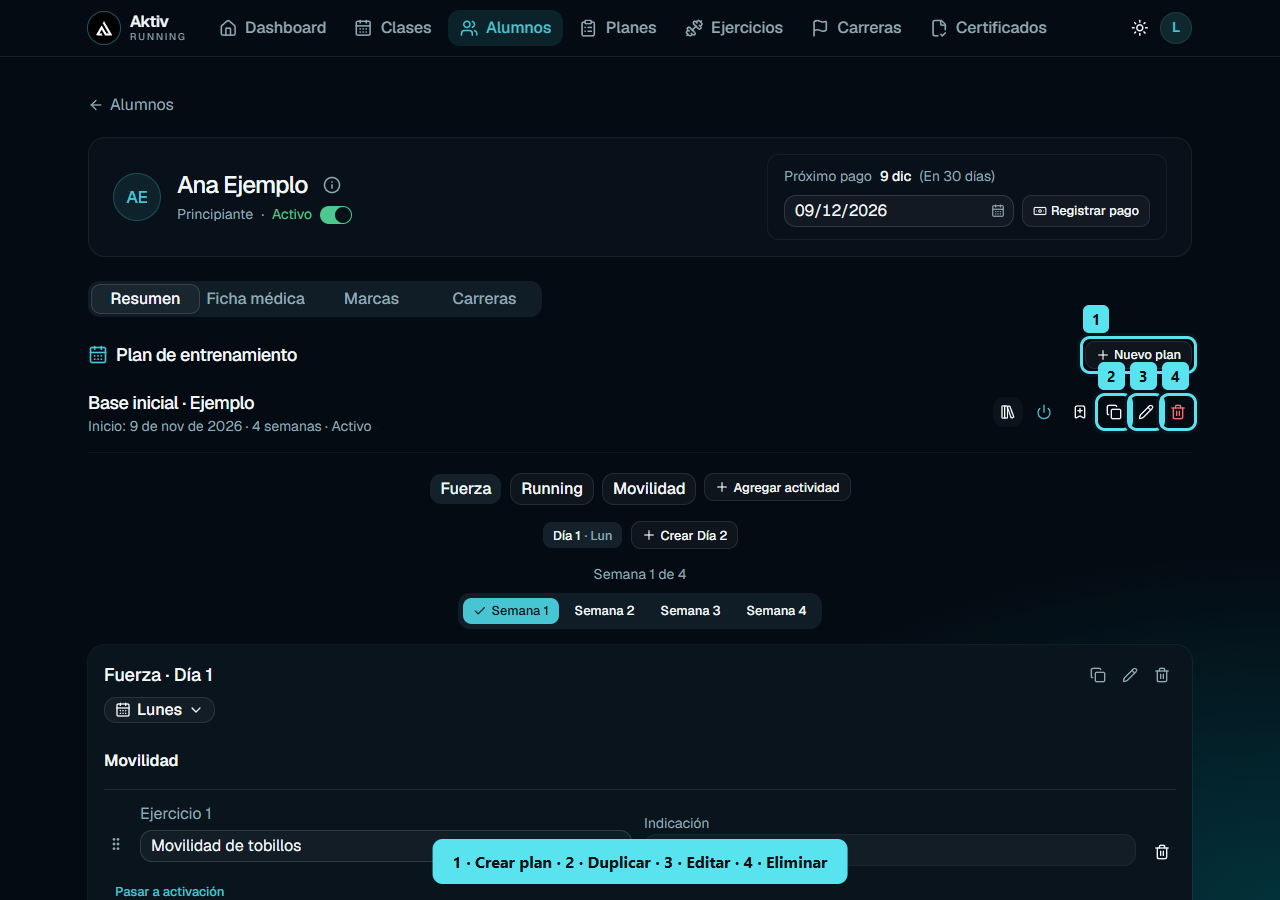
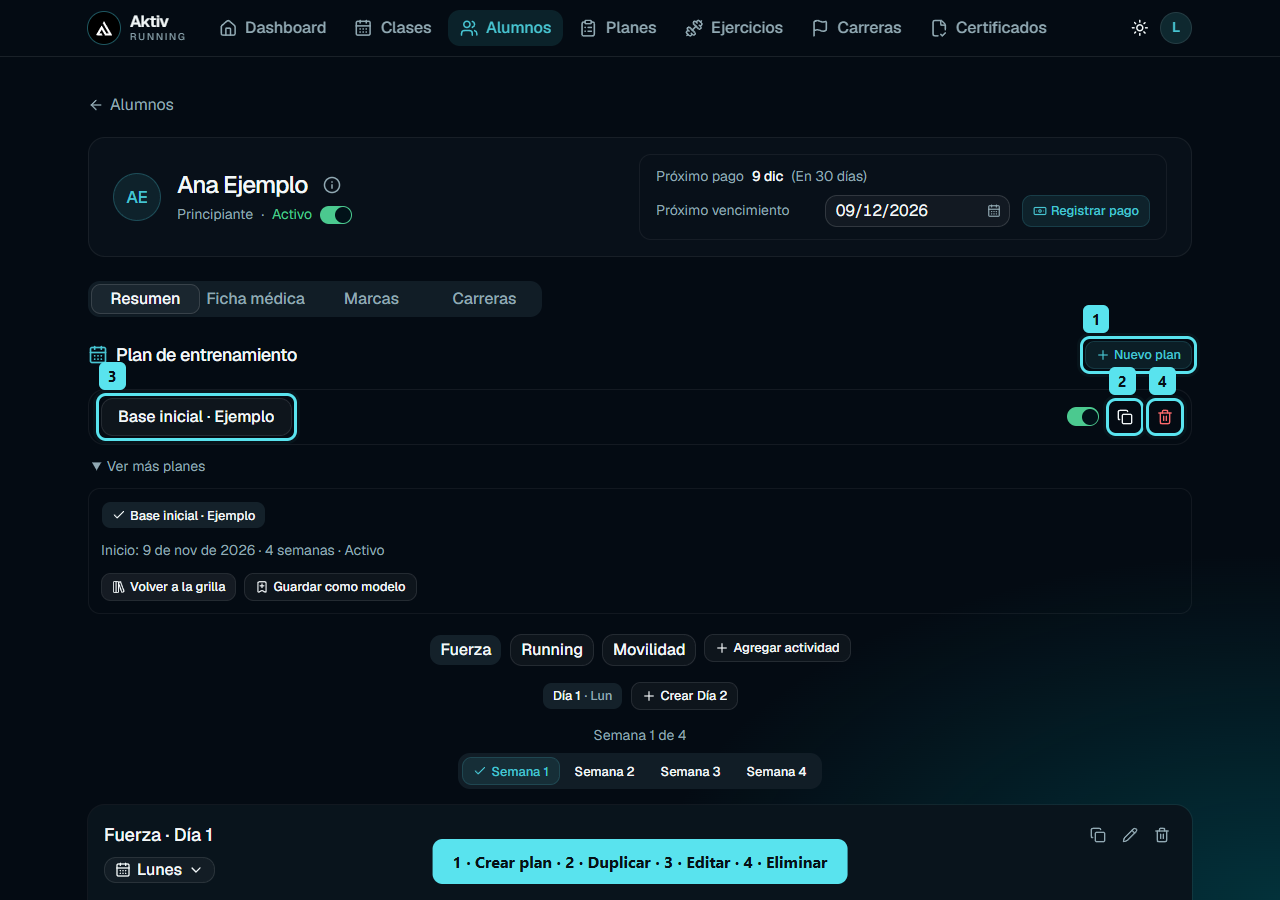
Unificar GYM con Fuerza y ajustar la barra al boceto

diff --git a/aktiv-client/src/components/plan-mensual.tsx b/aktiv-client/src/components/plan-mensual.tsx
@@ -16,6 +16,7 @@ import { RunningSemanal } from "./running-semanal";
 import { Card, CardContent, CardHeader, CardTitle, CardDescription } from "@/components/ui/card";
 import { Button } from "@/components/ui/button";
 import { Input } from "@/components/ui/input";
+import { Switch } from "@/components/ui/switch";
 import { FechaInput } from "@/components/fecha-input";
 import { Textarea } from "@/components/ui/textarea";
 import { Dialog, DialogContent, DialogHeader, DialogTitle, DialogDescription, DialogFooter } from "@/components/ui/dialog";
@@ -79,17 +80,23 @@ export function PlanMensualPanel({ alumnoId, editable = false, children, unifica
     <div className="flex min-w-0 flex-wrap items-start justify-between gap-3">
       <div className="min-w-0"><h2 className="flex items-center gap-2 text-lg font-medium tracking-tight"><CalendarDays className="size-5 shrink-0 text-primary" />Plan de entrenamiento</h2>
         {!unificado&&<p className="mt-1 text-sm text-muted-foreground">Sesiones por día y progresión por semanas.</p>}</div>
-      {editable && <Button variant="outline" size="sm" disabled={ocupado || datos.cargando || Boolean(datos.error)} onClick={() => navegar(() => { setCrear(true); })}><Plus />Nuevo plan</Button>}
+      {editable && <Button variant={unificado?"default":"outline"} size="sm" disabled={ocupado || datos.cargando || Boolean(datos.error)} onClick={() => navegar(() => { setCrear(true); })}><Plus />Nuevo plan</Button>}
     </div>
     {datos.cargando ? <p role="status" className="py-8 text-sm text-muted-foreground">Cargando planes…</p> : datos.error ?
       <div role="alert" className="rounded-xl border border-destructive/30 p-4 text-sm"><p>{datos.error}</p><Button variant="outline" size="sm" className="mt-2" onClick={datos.reintentar}>Reintentar</Button></div> : <>
-      {(editable||unificado) && visibles.length > 1 && <div className="flex flex-wrap gap-2" aria-label="Planes de entrenamiento">
+      {!(editable&&unificado) && (editable||unificado) && visibles.length > 1 && <div className="flex flex-wrap gap-2" aria-label="Planes de entrenamiento">
         {visibles.map((p) => <Button key={p.id} variant={p.id === plan?.id ? "secondary" : "outline"} size="sm" aria-pressed={p.id === plan?.id} onClick={() => navegar(() => setSeleccion(p.id))}>
           {p.activo && <Check className="size-3.5" />}{p.nombre || "Sin nombre"}
         </Button>)}
       </div>}
       {!editable && !unificado && visibles.length > 0 ? <CalendarioPlanes planes={visibles} /> : plan ? <>
-        <div className="flex min-w-0 flex-wrap items-center justify-between gap-3 border-b border-border/50 pb-4">
+        {editable&&unificado?<div className="space-y-2">
+          <div aria-label="Acciones del plan" role="group" className="flex min-w-0 items-center justify-between gap-3 rounded-xl border border-border/70 px-3 py-2">
+            <Button variant="outline" className="h-auto min-h-9 min-w-0 max-w-[65%] justify-start whitespace-normal px-4 py-1.5 text-left font-medium" aria-label="Editar plan de entrenamiento" title="Editar nombre, inicio y duración" disabled={ocupado} onClick={()=>navegar(()=>setEditando(plan))}>{plan.nombre||"Sin nombre"}</Button>
+            <div className="flex shrink-0 items-center gap-2 sm:gap-3"><Switch aria-label={plan.activo?"Desactivar plan":"Activar plan"} title={plan.activo?"Desactivar plan":"Activar plan"} checked={plan.activo} disabled={ocupado} style={{backgroundColor:plan.activo?"var(--success)":"var(--destructive)"}} onCheckedChange={v=>navegar(()=>void accion(v?"activar":"desactivar"))} /><Button size="icon-sm" variant="ghost" aria-label="Duplicar plan de entrenamiento" title="Duplicar plan" disabled={ocupado} onClick={()=>navegar(()=>setDuplicandoPlan(plan))}><Copy /></Button><Button size="icon-sm" variant="ghost" aria-label="Eliminar plan de entrenamiento" title="Eliminar plan" disabled={ocupado} onClick={()=>navegar(()=>setBorrar(true))}><Trash2 className="text-destructive" /></Button></div>
+          </div>
+          <details className="group/otros-planes"><summary className="w-fit cursor-pointer rounded-md px-1 py-1 text-xs text-muted-foreground outline-none hover:text-foreground focus-visible:ring-2 focus-visible:ring-ring">Ver más planes</summary><div className="mt-2 space-y-3 rounded-lg border border-border/60 p-3"><div className="flex flex-wrap gap-2" aria-label="Planes de entrenamiento">{visibles.map(p=><Button key={p.id} variant={p.id===plan.id?"secondary":"outline"} size="sm" aria-pressed={p.id===plan.id} onClick={()=>navegar(()=>setSeleccion(p.id))}>{p.activo&&<Check className="size-3.5" />}{p.nombre||"Sin nombre"}</Button>)}</div><p className="text-xs text-muted-foreground">Inicio: {formatFecha(plan.inicio,{conAnio:true})} · {plan.semanas} semanas · {plan.activo?"Activo":"Borrador"}</p><div className="flex flex-wrap gap-2"><Button variant="outline" size="sm" aria-label="Organizar rutinas" aria-pressed={organizando} onClick={()=>navegar(()=>setOrganizando(v=>!v))}><LibraryBig />{organizando?"Volver a la grilla":"Organizar rutinas"}</Button><Button variant="outline" size="sm" disabled={ocupado} onClick={()=>navegar(()=>setGuardandoModelo(true))}><BookmarkPlus />Guardar como modelo</Button></div></div></details>
+        </div>:<>        <div className="flex min-w-0 flex-wrap items-center justify-between gap-3 border-b border-border/50 pb-4">
           <div className="min-w-0 flex-1 basis-48"><p className="break-words text-lg font-medium tracking-tight">{plan.nombre || "Plan de entrenamiento"}</p><p className="text-xs text-muted-foreground">Inicio: {formatFecha(plan.inicio, { conAnio: true })} · {plan.semanas} semanas · {plan.activo ? "Activo" : "Borrador"}</p></div>
           {editable && <div className="flex flex-wrap items-center gap-1">
             {unificado&&<Button variant="ghost" size="icon" aria-label="Organizar rutinas" title={organizando?"Volver a la grilla":"Organizar rutinas"} aria-pressed={organizando} onClick={()=>navegar(()=>setOrganizando(v=>!v))}><LibraryBig /></Button>}
@@ -100,7 +107,7 @@ export function PlanMensualPanel({ alumnoId, editable = false, children, unifica
             <Button size="icon-sm" variant="ghost" aria-label="Editar plan de entrenamiento" title="Editar plan" disabled={ocupado} onClick={() => navegar(() => setEditando(plan))}><Pencil /></Button>
             <Button size="icon-sm" variant="ghost" aria-label="Eliminar plan de entrenamiento" disabled={ocupado} onClick={() => navegar(() => setBorrar(true))}><Trash2 className="text-destructive" /></Button>
           </div>}
-        </div>
+        </div></>}
         <>{unificado&&!editable&&<div className="flex justify-end"><Button size="sm" variant="outline" onClick={()=>navegar(()=>setVistaDiaria(v=>!v))}>{vistaDiaria?"Ver grilla semanal":"Vista diaria"}</Button></div>}{unificado&&editable&&organizando?<ContenidoMes key={`${plan.id}:${plan.semanas}`} plan={plan} editable />:unificado&&(!editable&&vistaDiaria)?<CalendarioPlanes planes={visibles} />:unificado&&!editable&&plan.inicio>hoyISO()?<p className="rounded-xl border bg-card p-5 text-sm text-muted-foreground">Tu plan empieza el {formatFecha(plan.inicio)}. Podés consultar las fechas desde Vista diaria.</p>:unificado?<PlanificacionUnificada key={`${plan.id}:${plan.semanas}`} plan={plan} editable={editable} renderRutina={(s,semana,cerrar)=><RutinaPlanModal key={s.id} plan={plan} sesion={s} editable={editable} semanaInicial={semana} onCerrar={cerrar} />} />:<ContenidoMes key={`${plan.id}:${plan.semanas}`} plan={plan} editable={editable} />}</>
       </> : <p className="min-w-0 break-words rounded-xl border border-dashed px-4 py-8 text-center text-sm text-muted-foreground">{editable ? "Creá un plan, elegí su duración y agregá las sesiones." : "Tu profe todavía no activó un plan de entrenamiento."}</p>}
     </>}

diff --git a/aktiv-client/src/lib/manual-detallado.ts b/aktiv-client/src/lib/manual-detallado.ts
@@ -6,6 +6,7 @@ const g = (id: string, categoria: string, titulo: string, descripcion: string, d
 export const guias: GuiaManual[] = [
   g("planificacion-unificada", "Planes", "Planificar la semana desde la ficha del alumno", "Asignar Running, Fuerza, Movilidad y descanso, vincular rutinas y abrirlas en un modal.", "/alumnos", [
     p("Abrí la ficha del alumno", "Entrá en Alumnos y pulsá el nombre de la persona. La planificación aparece directamente en Resumen, sin cambiar de pesta?a. Si tiene varios planes, elegí el nombre correcto antes de editar. Nuevo plan permite crear uno si todavía no tiene.", "planificacion-ficha"),
+    p("Reconocé la barra del plan", "El nombre enmarcado de la izquierda abre la edición de nombre, inicio y duración. A la derecha están el switch para activar o desactivar, duplicar y eliminar. Ver más planes despliega los demás planes, las fechas, Organizar rutinas y Guardar como modelo.", "planificacion-ficha"),
     p("Elegí las actividades de la semana", "En Semana, cada día tiene un switch: encendido significa que entrena y apagado significa Descanso, con el icono de cama. Si entrena, marcá las pesas para Fuerza, los pies para Running o ambos. También podés dejarlo sin actividades y completarlo después. Para quitar una actividad, pulsá su icono de nuevo. Al apagar se ocultan las actividades; si volvés a encenderlo durante la misma edición, se recupera la selección anterior. La elección se repite en todas las semanas del plan.", "planificacion-actividades"),
     p("Vinculá la rutina que corresponde", "Si elegiste Fuerza u otra actividad con ejercicios, buscá ese día en la primera columna de la grilla. Debajo de Lunes, Martes, etcétera, elegí Fuerza · Día 1, Fuerza · Día 2 o la rutina deseada. Se usan las rutinas de este plan; vincularlas a varios días no crea copias.", "planificacion-rutina"),
     p("Creá una rutina si todavía no está", "Pulsá Crear rutina, elegí la actividad, escribí un nombre y confirmá. Después seleccionala en la columna del día. Para una actividad nueva usá + Agregar actividad. Las sesiones de Running se escriben directamente en las celdas.", "planificacion-crear"),
@@ -15,10 +16,10 @@ export const guias: GuiaManual[] = [
     p("Duplicá una semana con cuidado", "Pulsá Duplicar semana, elegí origen y destino y confirmá. Reemplaza el texto de Running, los kilómetros, las sugerencias, las excepciones del destino y las repeticiones de las rutinas. Los pesos registrados por el alumno en el destino se conservan. Cancelar deja todo como estaba.", "planificacion-copiar"),
     p("Revisá la vista del alumno", "El alumno ve la misma grilla de sus planes activos ya iniciados. Abre las tarjetas para consultar la rutina en un modal de lectura. Puede registrar sus pesos y el seguimiento opcional, pero no cambiar las actividades ni las indicaciones del profesor.", "planificacion-modal-alumno"),
     p("Usala desde el celular", "En celular se muestra una semana por vez. Usá el selector y las flechas para cambiarla. En computadora aparecen hasta cuatro semanas juntas; si el plan es más largo, avanzá por grupos. Vista diaria permite al alumno consultar el calendario por fecha; Ver grilla semanal lo devuelve a la planificación.", "planificacion-movil"),
-  ], "Editar una rutina vinculada a varios días cambia esa misma rutina en todos ellos. Para una variante independiente, duplicá la rutina y asigná la copia. El icono de biblioteca Organizar rutinas, junto a las acciones del plan, permite ordenar y preparar rutinas sin asignar. Volvé a pulsarlo para regresar a la grilla."),
+  ], "Editar una rutina vinculada a varios días cambia esa misma rutina en todos ellos. Para una variante independiente, duplicá la rutina y asigná la copia. Debajo de la barra del plan, abrí Ver más planes. Allí Organizar rutinas permite ordenar y preparar rutinas sin asignar. Volvé a pulsarlo para regresar a la grilla."),
   g("running", "Planes", "Cargar Running en la planificación unificada", "Escribir las sesiones, kilómetros y sugerencias junto a Fuerza, Movilidad y descanso.", "/alumnos", [
     p("Abrí el alumno y elegí su plan", "La grilla está en Resumen al abrir la ficha. La ficha ya abre en esta vista. Si preparás un modelo desde Planes, también usa la misma planificación.", "planificacion-ficha"),
-    p("Marcá qué días corre", "En Semana, encendé el switch del día y marcá el icono de pies para Running. Para los demás elegí Fuerza, Movilidad, Descanso u otra actividad. GYM escrito en planes anteriores se conserva, sin vincularlo automáticamente a una rutina de Fuerza.", "planificacion-actividades"),
+    p("Marcá qué días corre", "En Semana, encendé el switch del día y marcá el icono de pies para Running. Para los demás elegí Fuerza, Movilidad, Descanso u otra actividad. GYM de planes anteriores se muestra con el único botón de Fuerza; sus rutinas y asignaciones se conservan sin convertir sus datos.", "planificacion-actividades"),
     p("Escribí el entrenamiento", "Buscá el día y la semana en la grilla y escribí el texto completo: entrada en calor, pasadas, ritmos, pausas y afloje. Podés usar números y saltos de línea. Un campo vacío dice Sin cargar; no significa Descanso.", "planificacion-grilla"),
     p("Completá kilómetros y sugerencias", "Cargá los kilómetros totales manualmente en la fila inferior. Sugerencias permite dejar indicaciones generales para esa semana. No se calculan distancias interpretando las abreviaturas del texto.", "planificacion-grilla"),
     p("Guardá y verificá", "El guardado es automático. Esperá Planificación guardada antes de cambiar de vista. Si aparece un error, conservá el campo y usá Reintentar guardado; no hace falta reescribirlo. Cambiar una asignación no borra el texto de Running que ya existía.", "planificacion-grilla"),
@@ -194,7 +195,7 @@ export const guias: GuiaManual[] = [
 
   g("guardar-modelo", "Planes", "Guardar un plan de alumno como modelo", "Reutilizar una rutina ya preparada con otras personas.", "/alumnos", [
     p("Abrí el plan que querés reutilizar", "Entrá en Alumnos → ficha → Resumen. Seleccioná la rutina y revisá nombre, semanas y ejercicios.", "alumno-planes"),
-    p("Pulsá Guardar como modelo", "Está en la cabecera junto a las acciones de estado del plan. No mueve ni le quita la rutina al alumno: crea una base aparte.", "plan-guardar-modelo"),
+    p("Pulsá Guardar como modelo", "Abrí Ver más planes, debajo de la barra del plan, y pulsá Guardar como modelo. No mueve ni le quita la rutina al alumno: crea una base aparte.", "plan-guardar-modelo"),
     p("Poné un nombre útil para la biblioteca", "Escribí un nombre como Base fuerza 4 semanas y confirmá el formulario. No dependas del nombre de la persona para reconocer esta base reutilizable.", "plan-guardar-modelo"),
     p("Buscalo en Planes", "Abrí Planes y buscá el nuevo nombre. Desde allí podés editar, duplicar o asignar copias a otras personas como borrador.", "modelos-lista"),
   ], "No se copian pesos personales ni seguimiento. Modelo y plan original siguen siendo independientes."),

diff --git a/aktiv-client/src/components/planificacion-unificada.tsx b/aktiv-client/src/components/planificacion-unificada.tsx
@@ -17,6 +17,7 @@ import { formatFecha, hoyISO, nuevoId } from "@/lib/format";
 type Plan = Pick<PlanMensual,"id"|"semanas"|"sesiones"|"running"|"distribucion"> & {inicio?:string;nombre?:string};
 type Props = {plan:Plan;editable:boolean;renderRutina:(s:SesionEntrenamiento,semana:number,cerrar:()=>void)=>ReactNode};
 const textoError=(e:unknown)=>e instanceof Error?e.message:"No se pudo guardar. Reintentá.";
+const tipoVisual=(tipo:string)=>tipo.trim().toLocaleLowerCase("es")==="gym"?"Fuerza":tipo;
 const icono=(tipo:string)=>tipo==="Running"?Footprints:tipo==="Fuerza"||tipo==="GYM"?Dumbbell:tipo==="Descanso"?BedDouble:Activity;
 const numeroRutina=(p:Plan,s:SesionEntrenamiento)=>p.sesiones.filter(v=>v.tipo===s.tipo).findIndex(v=>v.id===s.id)+1;
 const nombreRutina=(p:Plan,s:SesionEntrenamiento)=>`${s.tipo} · Día ${numeroRutina(p,s)}`;
@@ -40,11 +41,11 @@ function Asignador({valor,tipos,sesiones,label,onGuardar,onPendiente,soloRutina=
  return <div className="min-w-0 space-y-2">
   {!soloRutina&&<><div className="flex min-w-0 items-center justify-between gap-2"><span className="text-xs font-medium text-muted-foreground">{label.includes(",")?"Entrenamiento":label.slice(0,3)}</span><Switch size="sm" aria-label={`Entrena el ${label}`} checked={!descansa} disabled={disabled} onCheckedChange={entrena=>{if(entrena)actualizar(anteriores.current.filter(a=>sesiones.some(s=>s.id===a.sesionId)||!a.sesionId));else{anteriores.current=lista.filter(a=>a.tipo!=="Descanso");actualizar([{tipo:"Descanso"}]);}}} /></div>
    <div role="group" aria-label={`Actividades de ${label}`} className="flex min-h-24 flex-col items-center justify-center gap-2">
-    {descansa?<div role="status" aria-label={`Descanso de ${label}`} className="flex size-14 items-center justify-center rounded-xl bg-muted/40 text-muted-foreground"><BedDouble aria-hidden="true" className="size-6" /><span className="sr-only">Descanso</span></div>:[...new Set(["Fuerza","Running",...tipos,...lista.map(a=>a.tipo)])].filter(t=>t!=="Descanso").map(tipo=>{const activo=lista.some(a=>a.tipo===tipo),Icono=icono(tipo);return <Button key={tipo} type="button" variant="ghost" aria-label={`${tipo} de ${label}`} title={tipo} aria-pressed={activo} disabled={disabled||(!activo&&lista.length>=8)} className={`h-9 w-12 shrink-0 rounded-lg border p-0 transition-colors ${activo?"border-primary/35 bg-primary/10 text-primary":"border-border/70 bg-muted/25 text-muted-foreground/60 hover:bg-muted/50 hover:text-foreground"}`} onClick={()=>actualizar(activo?lista.filter(a=>a.tipo!==tipo):[...lista.filter(a=>a.tipo!=="Descanso"),{tipo}])}><Icono aria-hidden="true" className="size-5" /></Button>;})}
+    {descansa?<div role="status" aria-label={`Descanso de ${label}`} className="flex size-14 items-center justify-center rounded-xl bg-muted/40 text-muted-foreground"><BedDouble aria-hidden="true" className="size-6" /><span className="sr-only">Descanso</span></div>:[...new Set(["Fuerza","Running",...tipos,...lista.map(a=>a.tipo)].map(tipoVisual))].filter(t=>t!=="Descanso").map(tipo=>{const activo=lista.some(a=>tipoVisual(a.tipo)===tipo),Icono=icono(tipo);return <Button key={tipo} type="button" variant="ghost" aria-label={`${tipo} de ${label}`} title={tipo} aria-pressed={activo} disabled={disabled||(!activo&&lista.length>=8)} className={`h-9 w-12 shrink-0 rounded-lg border p-0 transition-colors ${activo?"border-primary/35 bg-primary/10 text-primary":"border-border/70 bg-muted/25 text-muted-foreground/60 hover:bg-muted/50 hover:text-foreground"}`} onClick={()=>actualizar(activo?lista.filter(a=>tipoVisual(a.tipo)!==tipo):[...lista.filter(a=>a.tipo!=="Descanso"),{tipo}])}><Icono aria-hidden="true" className="size-5" /></Button>;})}
    </div>
   </>}
-  {mostrarRutina&&lista.map((a,i)=>!["Running","Descanso"].includes(a.tipo)&&<select key={a.sesionId??a.tipo+i} disabled={disabled} aria-label={`Rutina de ${a.tipo} para ${label}`} className={selector} value={a.sesionId??""} onChange={e=>cambiar(i,{tipo:a.tipo,...(e.target.value?{sesionId:e.target.value}:{})})}>
-   <option value="">Elegir rutina…</option>{sesiones.filter(s=>s.tipo===a.tipo).map((s,n)=><option key={s.id} value={s.id}>{s.tipo} · Día {n+1}{s.nombre?` · ${s.nombre}`:""}</option>)}
+  {mostrarRutina&&lista.map((a,i)=>!["Running","Descanso"].includes(a.tipo)&&<select key={a.sesionId??a.tipo+i} disabled={disabled} aria-label={`Rutina de ${tipoVisual(a.tipo)} para ${label}`} className={selector} value={a.sesionId??""} onChange={e=>{const sesion=sesiones.find(s=>s.id===e.target.value);cambiar(i,{tipo:sesion?.tipo??a.tipo,...(sesion?{sesionId:sesion.id}:{})});}}>
+   <option value="">Elegir rutina…</option>{sesiones.filter(s=>tipoVisual(s.tipo)===tipoVisual(a.tipo)).map((s,n)=><option key={s.id} value={s.id}>{tipoVisual(s.tipo)} · Día {n+1}{s.nombre?` · ${s.nombre}`:""}</option>)}
   </select>)}
   {error?<div role="alert" className="space-y-1 text-xs text-destructive"><p>{error}</p><Button size="sm" variant="outline" onClick={()=>setError("")}>Reintentar asignación</Button></div>:sucio||ocupado?<p role="status" className="text-xs text-muted-foreground">Guardando asignación…</p>:null}
  </div>;

diff --git a/Codex.MD b/Codex.MD
@@ -1,3 +1,7 @@
+Validación de la corrección de planes:21 recorridos mensual aprobados con acceso por Ver más planes y switch de estado del plan; responsive vacío/cargado320–1440. La regresión espera la creación real del Día3 antes de navegar (antes esperaba Día2 ya existente); sin aumentar timeouts ni quitar comprobaciones. El selector de rutinas Fuerza ofrece sesiones tanto Fuerza como GYM y, al elegir, guarda el tipo real de esa sesión para mantener la integridad de las referencias.
+
+Corrección al boceto de planes y GYM (11/11/2026): Fuerza duplicada era catálogo/legado GYM mostrado con la misma pesa. tipoVisual normaliza GYM (sin diferencias de mayúsculas/espacios) solo al mostrar el selector: un único botón Fuerza marca ambos, sin migrar ni borrar sesiones/asignaciones; desmarcarlo quita las actividades equivalentes por acción explícita. Nueva barra en Resumen: nombre enmarcado abre Editar plan, a la derecha solo switch verde/rojo del PLAN, duplicar y eliminar; debajo Ver más planes contiene selección de otros planes, inicio/duración, Organizar rutinas y Guardar como modelo. Nuevo plan usa estilo primario. Vista del alumno conserva navegación propia. Manual/capturas y recorridos adaptados a disclosure/switch/nombre como botón; prueba de legado verifica asignación intacta y una sola pesa. Sin API/migración/Docker nuevos. Build, typecheck, ESLint y31 unitarios cliente aprobados; recorrido unificado320/390/1440 y caso GYM aprobados.
+
 Selector semanal del boceto (11/11/2026): tarjetas de días con switch Entrena el día y botones de pesas/pies; apagado guarda Descanso y muestra cama, sin botones de actividades. Encendido puede quedar sin actividades elegidas (distribución vacía explícita, diferente de Descanso), o combinar Fuerza/Running y actividades propias. Reactivar durante la misma edición recupera la selección previa, descartando referencias a rutinas borradas; recargar un descanso conserva ese estado y permite volver a elegir. La grilla, rutinas y textos anteriores se conservan; sin migración ni Docker para este cambio. Crear rutina prepara una sesión con ejercicios para vincular a días; Agregar actividad amplía el catálogo de tipos, no crea sesiones. Manual/capturas actualizados; build/typecheck/ESLint y31 pruebas cliente aprobados.
 
 Cabecera compacta y bloqueo de acceso (11/11/2026): nombre/iniciales, nivel y switch en una línea compacta, pago a la derecha. Icono Información del alumno abre email/teléfono/alta/objetivo y acciones de acceso en modal; guía y capturas actualizadas. Switch usa verde/rojo y confirma PATCH antes de actualizar store/base; error conserva estado anterior y permite reintentar. API AuthService exige alumnos.activo para rol alumno en login, refresh y cada solicitud autenticada, aun con token/perfil cacheado; consulta como el usuario y nunca usa service-role. alumno_inactivo es401, frontend cierra sesión por flujo existente. Reactivar conserva contraseña y registros; profesor no depende de este estado. No migración nueva. Validación:68 unitarios API +60 contrato +31 cliente, typecheck/ESLint/builds Nest y Next;148 e2e reales en Supabase descartable (69 API incluida desactivación/login/sesión cacheada/refresh/reactivación y79 de otras12 suites). Navegador verifica modal, switch/color, fallo/reintento,320/390/1440, recorrido DNI/CSV y responsive320–1440. Docker se usó solo para esa prueba con cuentas ficticias; producción y entorno del usuario no modificados.
